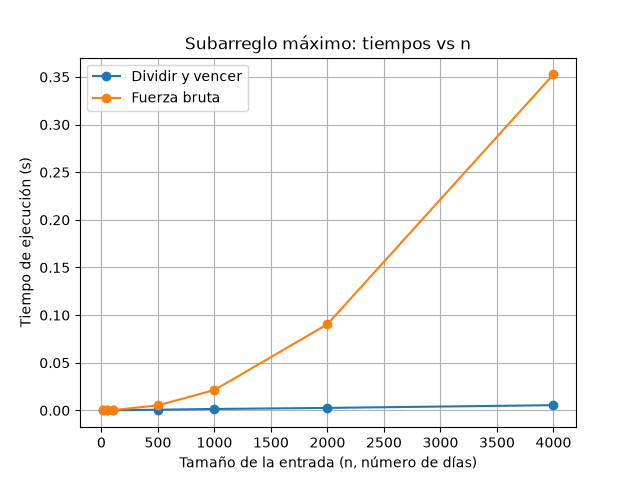
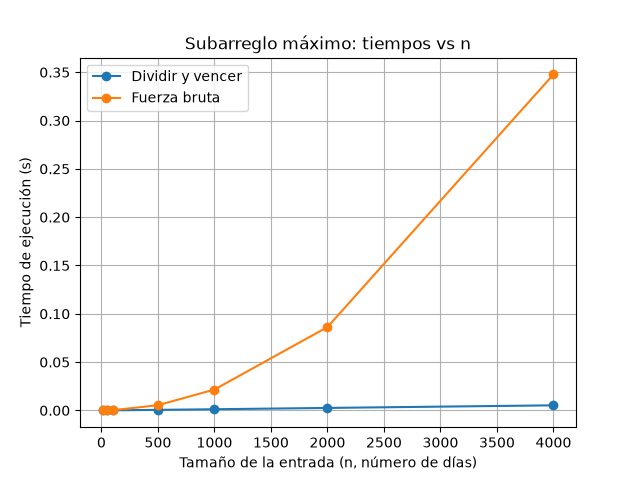
Correccion laboratorio 2

diff --git a/laboratorios/lab2-divide-y-vencer/medicion.py b/laboratorios/lab2-divide-y-vencer/medicion.py
@@ -1,3 +1,12 @@
+"""Medicion de tiempos: fuerza bruta contra divide y venceras.
+
+Mide los dos algoritmos de subarreglo.py con las mismas listas
+aleatorias (semilla 42) para varios tamanos de entrada. Cada medicion
+se repite varias veces y se usa el promedio. Imprime la tabla de
+tiempos y genera la grafica graficas/tiempo_vs_n.png con los mismos
+datos de esa corrida.
+"""
+
 import random
 import time
 import os
@@ -5,6 +14,8 @@ import os
 import matplotlib.pyplot as plt
 
 from subarreglo import subarreglo_fuerza_bruta, subarreglo_maximo
+
+REPETICIONES = 10
 
 
 def generar_entradas(n: int) -> list[int]:
@@ -21,6 +32,7 @@ def generar_entradas(n: int) -> list[int]:
     entrada = [random.randint(-100, 100) for _ in range(n)]
     return entrada
 
+
 def graficar_tiempo(
     tamanios: list[int],
     tiempos_dividir_vencer: list[float],
@@ -28,7 +40,7 @@ def graficar_tiempo(
 ) -> None:
     """
     Grafica los tiempos de ejecucion de ambos algoritmos.
-    
+
     Args:
         tamanios: tamaños de entrada medidos.
         tiempos_dividir_vencer: tiempos de divide y venceras, en segundos.
@@ -45,12 +57,13 @@ def graficar_tiempo(
     plt.ylabel("Tiempo de ejecución (s)")
     plt.legend()
     plt.grid(True)
-    
+
     carpeta = os.path.dirname(os.path.abspath(__file__))
     carpeta_graficas = os.path.join(carpeta, "graficas")
     os.makedirs(carpeta_graficas, exist_ok=True)
     plt.savefig(os.path.join(carpeta_graficas, "tiempo_vs_n.png"))
     plt.close()
+
 
 if __name__ == "__main__":
 
@@ -63,30 +76,36 @@ if __name__ == "__main__":
     for tamanio in tamanios:
         entrada = generar_entradas(tamanio)
 
-        # Medir el tiempo de divide y venceras.
-        inicio_reloj = time.perf_counter()
-        resultado_dividir_vencer = subarreglo_maximo(
-            entrada, 0, len(entrada) - 1
-        )
-        fin_reloj = time.perf_counter()
-        tiempos_dividir_vencer.append(fin_reloj - inicio_reloj)
+        # Medir el tiempo de divide y venceras (promedio de varias veces).
+        mediciones = []
+        for _ in range(REPETICIONES):
+            inicio_reloj = time.perf_counter()
+            resultado_dividir_vencer = subarreglo_maximo(
+                entrada, 0, len(entrada) - 1
+            )
+            fin_reloj = time.perf_counter()
+            mediciones.append(fin_reloj - inicio_reloj)
+        tiempos_dividir_vencer.append(sum(mediciones) / REPETICIONES)
 
-        # Medir el tiempo de fuerza bruta.
-        inicio_reloj = time.perf_counter()
-        resultado_fuerza_bruta = subarreglo_fuerza_bruta(entrada)
-        fin_reloj = time.perf_counter()
-        tiempos_fuerza_bruta.append(fin_reloj - inicio_reloj)
+        # Medir el tiempo de fuerza bruta (promedio de varias veces).
+        mediciones = []
+        for _ in range(REPETICIONES):
+            inicio_reloj = time.perf_counter()
+            resultado_fuerza_bruta = subarreglo_fuerza_bruta(entrada)
+            fin_reloj = time.perf_counter()
+            mediciones.append(fin_reloj - inicio_reloj)
+        tiempos_fuerza_bruta.append(sum(mediciones) / REPETICIONES)
 
         assert resultado_dividir_vencer[2] == resultado_fuerza_bruta[2]
 
         print("Tamaño de entrada:", tamanio)
         print("Suma máxima:", resultado_dividir_vencer[2])
-        print("Tiempo dividir y vencer: ", tiempos_dividir_vencer[-1], " segundos")
+        print("Tiempo dividir y vencer: ",
+              tiempos_dividir_vencer[-1], " segundos")
         print("Tiempo fuerza bruta: ", tiempos_fuerza_bruta[-1], " segundos")
         print("Las sumas de ambos algoritmos coinciden")
 
-
-    print("\nResumen de tiempos:")
+    print(f"\nResumen de tiempos (promedio de {REPETICIONES} repeticiones):")
     print("Tamaño | Dividir y vencer (s) | Fuerza bruta (s)")
     for i in range(len(tamanios)):
         print(

diff --git a/laboratorios/lab2-divide-y-vencer/subarreglo.py b/laboratorios/lab2-divide-y-vencer/subarreglo.py
@@ -34,7 +34,9 @@ def subarreglo_fuerza_bruta(valores: list[float]) -> tuple[int, int, float]:
 
     return mejor_inicio, mejor_fin, suma_maxima
 
-def suma_cruzada(valores: list[float], inicio: int, medio: int, fin: int
+
+def suma_cruzada(
+    valores: list[float], inicio: int, medio: int, fin: int
 ) -> tuple[int, int, float]:
     """
     Encuentra el mejor tramo que cruza el punto medio.
@@ -75,7 +77,8 @@ def suma_cruzada(valores: list[float], inicio: int, medio: int, fin: int
     return mejor_izquierda, mejor_derecha, suma_total
 
 
-def subarreglo_maximo(valores: list[float], inicio: int, fin: int
+def subarreglo_maximo(
+    valores: list[float], inicio: int, fin: int
 ) -> tuple[int, int, float]:
     """
     Encuentra la mejor racha por divide y venceras.
@@ -108,4 +111,3 @@ def subarreglo_maximo(valores: list[float], inicio: int, fin: int
     if suma_der >= suma_izq and suma_der >= suma_cruz:
         return inicio_der, fin_der, suma_der
     return inicio_cruz, fin_cruz, suma_cruz
-    

diff --git a/laboratorios/lab2-divide-y-vencer/README.md b/laboratorios/lab2-divide-y-vencer/README.md
@@ -8,11 +8,11 @@ Desde la raíz del repositorio activo el entorno virtual (con `matplotlib` insta
 
 ```bash
 # Windows
-.venv\Scripts\activate
+env\Scripts\activate
 # Mac / Linux
-source .venv/bin/activate
+source env/bin/activate
 
-cd lab2-divide-y-vencer
+cd laboratorios/lab2-divide-y-vencer
 python pruebas.py     # pruebas de las dos soluciones
 python medicion.py    # medición de tiempos y gráfica
 ```
@@ -37,17 +37,19 @@ Código: [`medicion.py`](medicion.py).
 
 ![Tiempo de ejecución vs tamaño de entrada](graficas/tiempo_vs_n.png)
 
-**Cómo medí:** usé la semilla 42, enteros entre -100 y 100, y la misma lista para ambos algoritmos en cada tamaño. Cronometré solo la llamada al algoritmo con `time.perf_counter()` y medí **una sola vez por tamaño**, así que hay algo de ruido del computador. En cada tamaño el programa verifica con `assert` que ambas sumas coinciden.
+**Cómo medí:** usé la semilla 42, enteros entre -100 y 100, y la misma lista para ambos algoritmos en cada tamaño. Cronometré solo la llamada al algoritmo con `time.perf_counter()`. Para que el ruido del computador no me dañara los resultados, cada algoritmo lo corrí **10 veces por tamaño y usé el promedio**. En cada tamaño el programa verifica con `assert` que ambas sumas coinciden.
+
+Esta tabla y la gráfica de arriba salen de **la misma corrida** de `medicion.py`, o sea que los números son los mismos que se ven en la imagen:
 
 | n | Dividir y vencer (s) | Fuerza bruta (s) |
 |---:|---:|---:|
-| 10 | 0,000031 | 0,000004 |
-| 50 | 0,000043 | 0,000071 |
-| 100 | 0,000077 | 0,000127 |
-| 500 | 0,000444 | 0,003982 |
-| 1000 | 0,000937 | 0,016730 |
-| 2000 | 0,001913 | 0,067421 |
-| 4000 | 0,004008 | 0,279497 |
+| 10 | 0,000009 | 0,000004 |
+| 50 | 0,000047 | 0,000052 |
+| 100 | 0,000096 | 0,000190 |
+| 500 | 0,000567 | 0,005366 |
+| 1000 | 0,001199 | 0,021615 |
+| 2000 | 0,002557 | 0,086237 |
+| 4000 | 0,005252 | 0,347778 |
 
 ## Parte 3 — Análisis
 
@@ -57,17 +59,21 @@ Mi algoritmo `subarreglo_maximo` divide la lista en dos partes, por lo que resue
 
 La recurrencia queda así: T(n) = 2T(n/2) + n. Según el método maestro, a = 2 (dos subproblemas) y b = 2 (cada uno es la mitad). El trabajo adicional crece al mismo ritmo que n^log₂2 = n, así que se cumple la condición del caso 2 y el resultado es Θ(n log n).
 
+**Caso base:** cuando la lista queda de un solo elemento (`inicio == fin`), el algoritmo no divide más y simplemente devuelve ese elemento, así que cuesta una cantidad constante de operaciones: T(1) = Θ(1). Eso es lo que hace que la recursión se detenga, y como hay n hojas (una por cada elemento), todas juntas suman Θ(n), que no cambia el resultado final.
+
+**¿Por qué sale exactamente Θ(n log n)?** En el caso 2 del método maestro, cuando f(n) es del mismo orden que n^log_b a, el resultado es T(n) = Θ(n^log_b a · log n). La idea es que el trabajo está repartido parejo en todos los niveles de la recursión: en cada nivel, entre todas las llamadas, `suma_cruzada` recorre en total unos n elementos, y como la lista se parte a la mitad cada vez, hay log₂ n niveles hasta llegar a listas de un elemento. Entonces es n de trabajo por cada uno de los log n niveles, o sea, n · log n. Por eso no queda en Θ(n), sino que aparece ese factor log n de más.
+
 La fuerza bruta es Θ(n²) porque prueba las combinaciones posibles de inicio y final del subarreglo. Aunque suma de forma acumulativa, hay cerca de nxn/2 combinaciones, y eso crece con el cuadrado del tamaño de la lista.
  
 ### 2. Lo medido contra lo esperado
  
-En la gráfica, la fuerza bruta se dispara hacia arriba, cada vez más empinada: con 4000 datos está en unos 0,28 s. La de dividir y vencer sube muy suave, casi pegada abajo: con 4000 marca unos 0,004 s, casi nada, unas 70 veces menos.
+En la gráfica, la fuerza bruta se dispara hacia arriba, cada vez más empinada: con 4000 datos está en unos 0,35 s. La de dividir y vencer sube muy suave, casi pegada abajo: con 4000 marca unos 0,005 s, casi nada, unas 66 veces menos.
  
-Tomé el paso de 2.000 a 4.000 elementos, donde el tamaño de la entrada se duplica. La fuerza bruta pasó de 0,067 s a 0,279 s, multiplicándose aproximadamente por 4,15, mientras que dividir y vencerás pasó de 0,0019 s a 0,0040 s, con un crecimiento cercano al doble (aproximadamente 2,10 según la medición). Esto se acerca a lo esperado: con una complejidad de Θ(n²), el tiempo puede multiplicarse por 4 al duplicar la entrada, mientras que con Θ(n log n) crece un poco más del doble, alrededor de 2,2 veces. Entonces, los resultados sí van de acuerdo con la teoría. Las pequeñas diferencias son normales, ya que hice una sola medición por tamaño y el computador también puede influir un poco en los tiempos.
+Tomé el paso de 2.000 a 4.000 elementos, donde el tamaño de la entrada se duplica. La fuerza bruta pasó de 0,086 s a 0,348 s, multiplicándose aproximadamente por 4,03, mientras que dividir y vencerás pasó de 0,0026 s a 0,0053 s, con un crecimiento cercano al doble (aproximadamente 2,05 según la medición). Esto se acerca a lo esperado: con una complejidad de Θ(n²), el tiempo puede multiplicarse por 4 al duplicar la entrada, mientras que con Θ(n log n) crece un poco más del doble, alrededor de 2,2 veces. Entonces, los resultados sí van de acuerdo con la teoría. Las pequeñas diferencias son normales; aunque ahora promedié 10 mediciones por tamaño, el computador siempre puede influir un poquito en los tiempos.
  
 ### 3. Tamaños pequeños
  
-En mis pruebas, con 10 elementos ganó la fuerza bruta (0,000004 s frente a 0,000031 s de dividir y vencerás). Pero cuando pasé a 50 elementos, dividir y vencerás empezó a ser más rápido (0,000043 s frente a 0,000071 s), y desde ahí la diferencia fue aumentando. Esto pasa porque, con listas pequeñas, las llamadas recursivas tienen un costo adicional que hace que dividir y vencerás se demore un poquito más. Pero, cuando aumenta la cantidad de datos, ese costo deja de ser tan importante y se nota la ventaja de revisar menos combinaciones.
+En mis pruebas, con 10 elementos ganó la fuerza bruta (0,000004 s frente a 0,000009 s de dividir y vencerás). Pero cuando pasé a 50 elementos, dividir y vencerás empezó a ser más rápido, aunque por muy poquito (0,000047 s frente a 0,000052 s), y desde ahí la diferencia fue aumentando: con 100 ya es casi la mitad (0,000096 s frente a 0,000190 s). Esto pasa porque, con listas pequeñas, las llamadas recursivas tienen un costo adicional que hace que dividir y vencerás se demore un poquito más. Pero, cuando aumenta la cantidad de datos, ese costo deja de ser tan importante y se nota la ventaja de revisar menos combinaciones.
  
 ### 4. ¿Cuándo conviene dividir?
  
@@ -79,9 +85,9 @@ Si se divide la lista en dos, se buscan los máximos de cada mitad y luego se co
  
 Para la cooperativa le recomendaría a la gerente usar `subarreglo_maximo` (dividir y vencerás), porque es mucho más eficiente cuando se trabaja con grandes cantidades de registros. Con unos 2.000 o 4.000 datos, ambos algoritmos pueden funcionar, pero cuando se llega a cientos de miles o millones de registros, la fuerza bruta puede tardar demasiado.
 
-**Esta seria la estimación.** Para calcularla, tomé como referencia los resultados con 4.000 elementos y los proyecté a 1.000.000. Esto significa que la cantidad de datos aumenta 250 veces (1.000.000 / 4.000 = 250), pero el tiempo no aumenta igual para los dos algoritmos.
+**Esta seria la estimación.** Para calcularla, tomé como referencia los resultados con 4.000 elementos de mi gráfica (0,348 s para la fuerza bruta y 0,0053 s para dividir y vencerás) y los proyecté a 1.000.000. Esto significa que la cantidad de datos aumenta 250 veces (1.000.000 / 4.000 = 250), pero el tiempo no aumenta igual para los dos algoritmos.
 
-- **Fuerza bruta:** como su tiempo crece aproximadamente con \(n^2\), el aumento sería de 250 × 250 = 62.500 veces. Entonces, 0,28 segundos × 62.500 da unos 17.500 segundos, es decir, cerca de **4,9 horas**.
-- **Dividir y vencerás:** crece con n log n, o sea un poquito más que los datos por el logaritmo, que pasa de más o menos 12 a más o menos 20 (un factor de 1,67). Entonces aumenta unas 250 × 1,67 ≈ 417 veces, y 0,004 s × 417 da aproximadamente **1,7 segundos**.
+- **Fuerza bruta:** como su tiempo crece aproximadamente con \(n^2\), el aumento sería de 250 × 250 = 62.500 veces. Entonces, 0,348 segundos × 62.500 da unos 21.700 segundos, es decir, cerca de **6 horas**.
+- **Dividir y vencerás:** crece con n log n, o sea un poquito más que los datos por el logaritmo, que pasa de más o menos 12 a más o menos 20 (un factor de 1,67). Entonces aumenta unas 250 × 1,67 ≈ 417 veces, y 0,0053 s × 417 da aproximadamente **2,2 segundos**.
 
 Los tiempos reales pueden variar según el computador y las condiciones de ejecución, pero la diferencia estimada es bastante clara: **horas frente a unos pocos segundos**. Por eso, dividir y vencerás sería la mejor opción para trabajar con grandes volúmenes de información.
